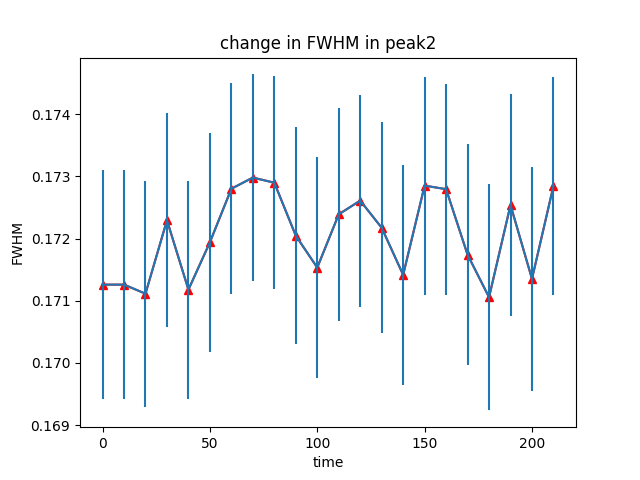
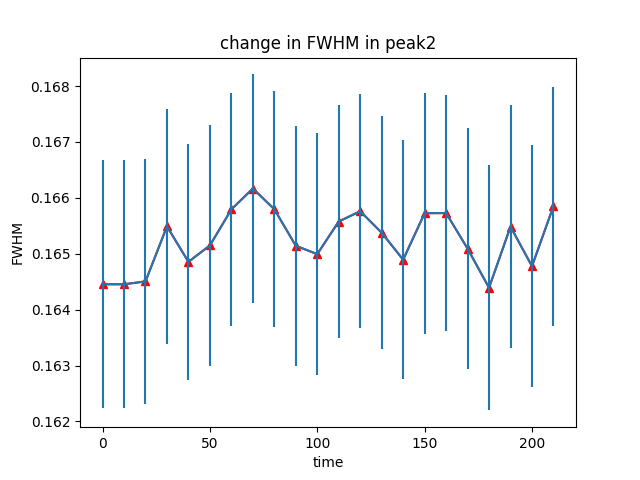
change parameter of baseline

diff --git a/method.py b/method.py
@@ -198,7 +198,8 @@ def gaussian_fitting_plot(two_theta,intensity,x_interval,set_pars):
     x_interval_value, y_interval_value = interval_data(two_theta,intensity,x_interval)
     plt.plot(x_interval_value, y_interval_value, '-', label='original data')
     # plt.title('Gaussian fitting for dataset %d' %i)
-    baseline = baseline_als(y_interval_value,10000,0.0001)
+    # baseline = baseline_als(y_interval_value,10000,0.0001)
+    baseline = baseline_als(y_interval_value,10000,0.01)
     baseline_subtracted = y_interval_value - baseline
     plt.plot(x_interval_value, baseline,':',label='baseline')
     plt.plot(x_interval_value, baseline_subtracted,label='after background subtraction')
